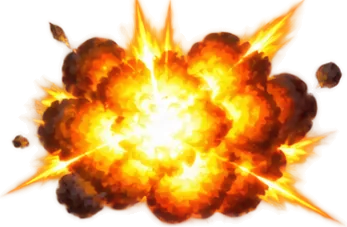
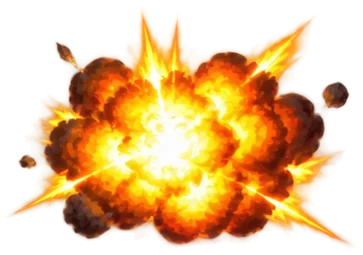
effects updated

diff --git a/public/index.html b/public/index.html
@@ -2851,8 +2851,8 @@ body.spa .ffside.foe{background:linear-gradient(270deg,rgba(56,189,248,.14),tran
     <div class="m3-l base" data-d="base"></div><div class="m3-stars" data-d="stars"></div>
     <div class="m3-l emb" data-d="emb"></div><div class="m3-l embGlow" data-d="emb"></div>
     <div class="m3-l farFed" data-d="far"></div><div class="m3-l farZeon" data-d="far"></div>
-    <div class="m3-fx" data-d="fx"></div>
     <div class="m3-l nearFed" data-d="near"></div><div class="m3-l nearZeon" data-d="near"></div>
+    <div class="m3-fx" data-d="fx"></div>
     <div class="m3-l rocks" data-d="rocks"></div>
     <div class="m3-l fg" data-d="fg"></div>
     <div class="m3-embers" data-d="embers"></div>
@@ -2906,8 +2906,8 @@ body.spa .ffside.foe{background:linear-gradient(270deg,rgba(56,189,248,.14),tran
     <div class="m3-l base" data-d="base"></div><div class="m3-stars" data-d="stars"></div>
     <div class="m3-l emb" data-d="emb"></div><div class="m3-l embGlow" data-d="emb"></div>
     <div class="m3-l farFed" data-d="far"></div><div class="m3-l farZeon" data-d="far"></div>
-    <div class="m3-fx" data-d="fx"></div>
     <div class="m3-l nearFed" data-d="near"></div><div class="m3-l nearZeon" data-d="near"></div>
+    <div class="m3-fx" data-d="fx"></div>
     <div class="m3-l rocks" data-d="rocks"></div>
     <div class="m3-l fg" data-d="fg"></div>
     <div class="m3-embers" data-d="embers"></div>
@@ -10349,13 +10349,14 @@ function m3Start() {
     const root = m3Root();
     if (!root || root.parentNode.classList.contains("m3lite")) { if (root) M3.boomT = setTimeout(boom, 3000); return; }
     const fx = root.querySelector(".m3-fx");
-    if (fx && fx.childElementCount < 8) {
-      const r = Math.random(), fromFed = Math.random() < 0.5;
-      if (r < 0.14) beam(fx, fromFed, true);                           // long beam
-      else if (r < 0.5) {                                               // one to three bolts
-        const n = Math.random() < 0.3 ? 3 : 1;
+    if (fx && fx.childElementCount < 12) {
+      const r = Math.random(), fromFed = Math.random() < 0.5;          // Federation fires pink, Zeon fires yellow
+      if (r < 0.22) beam(fx, fromFed, true);                           // long beam
+      else if (r < 0.72) {                                              // one to three bolts, sometimes answered
+        const n = Math.random() < 0.35 ? 3 : 1;
         for (let k = 0; k < n; k++) setTimeout(() => fx.isConnected && beam(fx, fromFed, false), k * 140);
-      } else if (r < 0.62) {                                            // a chain of small blasts across one ship
+        if (Math.random() < 0.3) setTimeout(() => fx.isConnected && beam(fx, !fromFed, Math.random() < 0.25), 380 + Math.random() * 300);
+      } else if (r < 0.82) {                                            // a chain of small blasts across one ship
         const onFed = Math.random() < 0.5, c = pick(onFed ? FED : ZEON), n = 2 + Math.floor(Math.random() * 3);
         for (let k = 0; k < n; k++) blast(fx, onFed, [c[0] + (k - n / 2) * rnd(1.5, 3) * (onFed ? 1 : -1), c[1] + rnd(-2, 2)], rnd(3, 6), k * rnd(120, 220));
       } else {                                                          // a single hit, small to big
@@ -10363,7 +10364,7 @@ function m3Start() {
         blast(fx, onFed, jit(pick(onFed ? FED : ZEON), 6), blastSize(), 0);
       }
     }
-    M3.boomT = setTimeout(boom, 900 + Math.random() * 2000);
+    M3.boomT = setTimeout(boom, 700 + Math.random() * 1200);
   };
   M3.boomT = setTimeout(boom, 1200);
 }
@@ -14284,7 +14285,7 @@ function fitSheet() {
 }
 window.addEventListener("resize", () => requestAnimationFrame(fitSheet));
 window.addEventListener("orientationchange", () => setTimeout(fitSheet, 150));
-const APP_BUILD = "cf62";
+const APP_BUILD = "cf64";
 if ($("buildTag")) $("buildTag").textContent = APP_BUILD;
 if ($("buildTag0")) $("buildTag0").textContent = APP_BUILD;
 

diff --git a/public/sw.js b/public/sw.js
@@ -1,4 +1,4 @@
-const C="gbcf-cf62";
+const C="gbcf-cf64";
 const FILES=["./","index.html","manifest.json",
  "img/mech-gundam.webp","img/ship-musai.webp","img/portraits/ship-musai.webp","img/portraits/ship-salamis.webp","img/portraits/ship-rewloola.webp","img/portraits/ship-racailum.webp","img/ship-salamis.webp","img/ship-rewloola.webp","img/ship-racailum.webp","img/mech-sazabi.webp","img/mech-zaku.webp","img/mech-gm.webp",
  "img/menu-bg.webp","img/lobby-bg.webp","img/menu2-bg.webp","img/m3-base.webp","img/m3-emblem.webp","img/m4-far-fed.webp","img/fx/boom-o1.webp","img/fx/boom-o2.webp","img/fx/boom-o3.webp","img/fx/ring-o.webp","img/fx/boom-p1.webp","img/fx/boom-p2.webp","img/fx/star-p.webp","img/fx/ring-p.webp","img/fx/star-y.webp","img/fx/star-w.webp","img/fx/spark-p.webp","img/fx/ground.webp","img/fx/smoke-o.webp","img/fx/beam-y.webp","img/fx/beam-p.webp","img/m4-far-zeon.webp","img/m4-near-fed.webp","img/m4-near-zeon.webp","img/m3-rocks.webp","img/m3-fg.webp","img/menu2-gundam.webp","img/menu2-zaku.webp","img/menu2-clash.webp","img/menu2-logo.webp","img/ground/fed-armor.webp","img/ground/fed-car.webp","img/ground/fed-heli.webp","img/ground/fed-jet.webp","img/ground/fed-mg.webp","img/ground/fed-recon.webp","img/ground/fed-rifleman.webp","img/ground/fed-shield.webp","img/ground/fed-sniper.webp","img/ground/fed-tank.webp","img/ground/fed-transport.webp","img/ground/spa-armor.webp","img/ground/spa-car.webp","img/ground/spa-heli.webp","img/ground/spa-jet.webp","img/ground/spa-mg.webp","img/ground/spa-recon.webp","img/ground/spa-rifleman.webp","img/ground/spa-shield.webp","img/ground/spa-sniper.webp","img/ground/spa-tank.webp","img/ground/spa-transport.webp","img/ground/wire-fed-car.webp","img/ground/wire-fed-heli.webp","img/ground/wire-fed-jet.webp","img/ground/wire-fed-tank.webp","img/ground/wire-fed-transport.webp","img/ground/wire-spa-car.webp","img/ground/wire-spa-heli.webp","img/ground/wire-spa-jet.webp","img/ground/wire-spa-tank.webp","img/ground/wire-spa-transport.webp","img/menu-fed.webp","img/menu-spa.webp","img/bg-fed.webp","img/bg-spa.webp",

diff --git a/README_CLOUDFLARE.md b/README_CLOUDFLARE.md
@@ -1,4 +1,4 @@
-# Gunpla Battle — Cloudflare version (build cf62)
+# Gunpla Battle — Cloudflare version (build cf64)
 
 This is the full app (solo tracker + team multiplayer). It runs on **Cloudflare Workers**, with a **Durable Object "room" per battle session**.
 
@@ -130,3 +130,5 @@ public/            the app (index.html, images, service worker)
 | cf60 | `public/index.html`, `public/sw.js` | Perfect Volley rule change: only a squad rolling 2–5 dice with every die a 6 (includes suppressed squads down to 2 dice); destroys 3 / 4 / 5 / 6. Margin table has one 'Lost to a Perfect Volley' row that asks how many sixes (2–5) and applies the casualties; rolled dice use the same rule; reference text updated |
 | cf61 | `public/index.html`, `public/sw.js`, **new folder** `public/img/fx/` (15 sprites) | Designer's effect art: menu scene now has sprite explosions on the ships and beam shots between the fleets (pink from the Federation, yellow from Zeon) ending in impact bursts; firefight flash / grenade / smoke use the sprites; unit sheets show a hit spark when damage is tapped and a fireball when a part or unit is destroyed (not on repair; off with reduced motion) |
 | cf62 | `public/index.html`, `public/sw.js` | Menu battle effects: long beams stretched from ship to target (flash on, thin out, big impact + ring), bolts of random length / thickness (sometimes in bursts of 3), blasts in small / medium / big sizes (big ones with a shockwave ring), chains of small blasts across a ship; bigger fireball + ring when a part is destroyed on a sheet |
+| cf63 | `public/index.html`, `public/sw.js`, **replaced** 13 images in `public/img/fx/` | Explosion sprites re-cut: each sprite is separated along the gaps between them (no clipped rays, no fragments of neighbours, soft fade where two touch; every edge verified clear). Menu hits now show in front of the near ships |
+| cf64 | `public/index.html`, `public/sw.js` | Menu battle: more beam fire — events every 0.7–1.9s, long beams 22% and bolts 50% of events, sometimes answered by return fire; up to 12 effects at once (Federation beams pink, Zeon beams yellow) |
